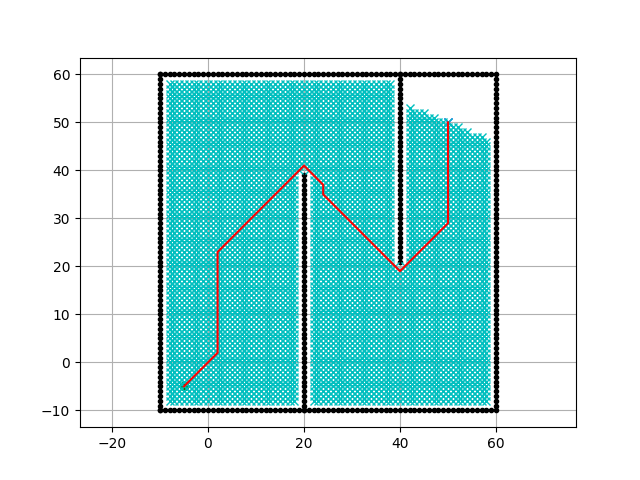
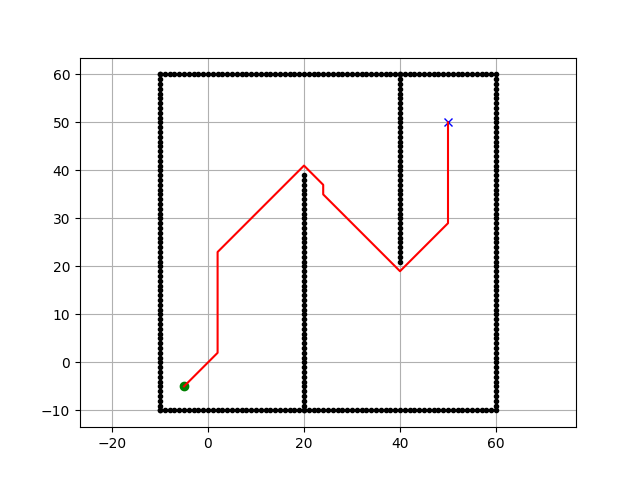
Part A of 7 complete

Changed region(s): [[0.25, 0.1562, 0.7812, 0.8438]]

diff --git a/Q7/main.py b/Q7/main.py
@@ -1,10 +1,11 @@
-from Planner import Planner
 from Dijkstra import CustomDijkstraPlanner
 from AStar import CustomAStarPlanner
 from BiDirectional import CustomBiDirectional
 from BFSPlanner import CustomBFSPlanner
 from RRTStar import CustomRRTStar
 import matplotlib.pyplot as plt
+import math
+import time
 
 
 def createGrid(show_animation):
@@ -36,26 +37,42 @@ def createGrid(show_animation):
         oy.append(60.0 - i)
 
     if show_animation:  # pragma: no cover
-        plt.plot(ox, oy, ".k")
-        plt.plot(sx, sy, "og")
-        plt.plot(gx, gy, "xb")
-        plt.grid(True)
-        plt.axis("equal")
+        plotBoard(ox, oy, sx, sy, gx, gy)
     return ox, oy, sx, sy, gx, gy
+
+
+def plotBoard(ox, oy, sx, sy, gx, gy):
+    plt.plot(ox, oy, ".k")
+    plt.plot(sx, sy, "og")
+    plt.plot(gx, gy, "xb")
+    plt.grid(True)
+    plt.axis("equal")
 
 
 def runRRtStar(obsList, start, goal, robot_radius, show_animation):
     # RRT Star has different setup
-    planner = CustomRRTStar(
-        start=start,
-        goal=goal,
-        obstacle_list=obsList,
-        robot_radius=robot_radius,
-        rand_area=[-10, 60],
+    totalCost = 0
+    totalTime = 0
+    iterations = 1
+    for i in range(iterations):
+        planner = CustomRRTStar(
+            start=start,
+            goal=goal,
+            obstacle_list=obsList,
+            robot_radius=robot_radius,
+            rand_area=[-10, 60],
+        )
+        plt.clf()
+        startTime = time.time()
+        path = planner.plan(show_animation)
+        finishTime = time.time()
+        cost = analyzeCost(path[0], path[1])
+        totalCost += cost
+        totalTime += finishTime - startTime
+        planner.graph(path)
+    print(
+        f"| RRT Star | {round(totalTime/iterations, 2)} | {round(totalCost/iterations,2)} |"
     )
-    path = planner.plan(show_animation)
-    planner.graph(path)
-    print()
 
 
 def runPlanners(ox, oy, sx, sy, gx, gy, robot_radius, show_animation, resolution):
@@ -65,20 +82,42 @@ def runPlanners(ox, oy, sx, sy, gx, gy, robot_radius, show_animation, resolution
         CustomBFSPlanner,
         CustomBiDirectional,
     ]:
-        print(algorithm.__name__)
-        planner = algorithm(ox, oy, resolution, robot_radius)  # Initialize the planner
-        rx, ry = planner.plan(sx, sy, gx, gy, show_animation)
-        if show_animation:
+        # Reset the plot
+        totalCost = 0
+        totalTime = 0
+        iterations = 1
+        for i in range(iterations):
+            plt.clf()
+            plotBoard(ox, oy, sx, sy, gx, gy)
+            startTime = time.time()
+            planner = algorithm(
+                ox, oy, resolution, robot_radius
+            )  # Initialize the planner
+            rx, ry = planner.plan(sx, sy, gx, gy, show_animation)
+            finishTime = time.time()
             planner.graph(rx, ry)
+            cost = analyzeCost(rx, ry)
+            totalCost += cost
+            totalTime += finishTime - startTime
+        print(
+            f"| {algorithm.__name__} | {round(totalTime/iterations, 2)} | {round(totalCost/iterations, 2)} |"
+        )
+
+
+def analyzeCost(rx, ry):
+    cost = 0
+    for i in range(len(rx) - 1):
+        cost += math.hypot(rx[i] - rx[i + 1], ry[i] - ry[i + 1])
+    return cost
 
 
 def main():
     resolution = 1  # [m]
     robot_radius = 1  # [m]
-    show_animation = False
+    show_animation = True
     ox, oy, sx, sy, gx, gy = createGrid(True)
     obsList = [[ox[i], oy[i], 1] for i in range(len(ox))]
-    # runPlanners(ox, oy, sx, sy, gx, gy, robot_radius, show_animation, resolution)
+    runPlanners(ox, oy, sx, sy, gx, gy, robot_radius, show_animation, resolution)
     runRRtStar(obsList, [sx, sy], [gx, gy], robot_radius, show_animation)
 
 

diff --git a/Q7/BFSPlanner.py b/Q7/BFSPlanner.py
@@ -108,7 +108,7 @@ class BreadthFirstSearchPlanner:
                     plt.pause(0.001)
 
             if current.x == ngoal.x and current.y == ngoal.y:
-                print("Find goal")
+                # print("Find goal")
                 ngoal.parent_index = current.parent_index
                 ngoal.cost = current.cost
                 break
@@ -189,15 +189,15 @@ class BreadthFirstSearchPlanner:
         self.miny = round(min(oy))
         self.maxx = round(max(ox))
         self.maxy = round(max(oy))
-        print("min_x:", self.minx)
-        print("min_y:", self.miny)
-        print("max_x:", self.maxx)
-        print("max_y:", self.maxy)
+        # print("min_x:", self.minx)
+        # print("min_y:", self.miny)
+        # print("max_x:", self.maxx)
+        # print("max_y:", self.maxy)
 
         self.xwidth = round((self.maxx - self.minx) / self.reso)
         self.ywidth = round((self.maxy - self.miny) / self.reso)
-        print("x_width:", self.xwidth)
-        print("y_width:", self.ywidth)
+        # print("x_width:", self.xwidth)
+        # print("y_width:", self.ywidth)
 
         # obstacle map generation
         self.obmap = [[False for _ in range(self.ywidth)] for _ in range(self.xwidth)]
@@ -236,3 +236,4 @@ class CustomBFSPlanner(BreadthFirstSearchPlanner):
         plt.plot(rx, ry, "-r")
         plt.grid(True)
         plt.show()
+        # plt.savefig("BFS.png")

diff --git a/Q7/BiDirectional.py b/Q7/BiDirectional.py
@@ -129,7 +129,7 @@ class BidirectionalAStarPlanner:
                     plt.pause(0.001)
 
             if current_A.x == current_B.x and current_A.y == current_B.y:
-                print("Found goal")
+                # print("Found goal")
                 meet_point_A = current_A
                 meet_point_B = current_B
                 break
@@ -283,15 +283,15 @@ class BidirectionalAStarPlanner:
         self.min_y = round(min(oy))
         self.max_x = round(max(ox))
         self.max_y = round(max(oy))
-        print("min_x:", self.min_x)
-        print("min_y:", self.min_y)
-        print("max_x:", self.max_x)
-        print("max_y:", self.max_y)
+        # print("min_x:", self.min_x)
+        # print("min_y:", self.min_y)
+        # print("max_x:", self.max_x)
+        # print("max_y:", self.max_y)
 
         self.x_width = round((self.max_x - self.min_x) / self.resolution)
         self.y_width = round((self.max_y - self.min_y) / self.resolution)
-        print("x_width:", self.x_width)
-        print("y_width:", self.y_width)
+        # print("x_width:", self.x_width)
+        # print("y_width:", self.y_width)
 
         # obstacle map generation
         self.obstacle_map = [
@@ -332,3 +332,4 @@ class CustomBiDirectional(BidirectionalAStarPlanner):
         plt.plot(rx, ry, "-r")
         plt.grid(True)
         plt.show()
+        # plt.savefig("BiDirectional.png")

diff --git a/Q7/AStar.py b/Q7/AStar.py
@@ -115,7 +115,7 @@ class AStarPlanner:
                     plt.pause(0.001)
 
             if current.x == goal_node.x and current.y == goal_node.y:
-                print("Find goal")
+                # print("Find goal")
                 goal_node.parent_index = current.parent_index
                 goal_node.cost = current.cost
                 break
@@ -215,15 +215,15 @@ class AStarPlanner:
         self.min_y = round(min(oy))
         self.max_x = round(max(ox))
         self.max_y = round(max(oy))
-        print("min_x:", self.min_x)
-        print("min_y:", self.min_y)
-        print("max_x:", self.max_x)
-        print("max_y:", self.max_y)
+        # print("min_x:", self.min_x)
+        # print("min_y:", self.min_y)
+        # print("max_x:", self.max_x)
+        # print("max_y:", self.max_y)
 
         self.x_width = round((self.max_x - self.min_x) / self.resolution)
         self.y_width = round((self.max_y - self.min_y) / self.resolution)
-        print("x_width:", self.x_width)
-        print("y_width:", self.y_width)
+        # print("x_width:", self.x_width)
+        # print("y_width:", self.y_width)
 
         # obstacle map generation
         self.obstacle_map = [
@@ -264,3 +264,4 @@ class CustomAStarPlanner(AStarPlanner):
         plt.plot(rx, ry, "-r")
         plt.grid(True)
         plt.show()
+        # plt.savefig("AStar.png")

diff --git a/Q7/Dijkstra.py b/Q7/Dijkstra.py
@@ -103,7 +103,7 @@ class Dijkstra:
                     plt.pause(0.001)
 
             if current.x == goal_node.x and current.y == goal_node.y:
-                print("Find goal")
+                # print("Find goal")
                 goal_node.parent_index = current.parent_index
                 goal_node.cost = current.cost
                 break
@@ -188,15 +188,15 @@ class Dijkstra:
         self.min_y = round(min(oy))
         self.max_x = round(max(ox))
         self.max_y = round(max(oy))
-        print("min_x:", self.min_x)
-        print("min_y:", self.min_y)
-        print("max_x:", self.max_x)
-        print("max_y:", self.max_y)
+        # print("min_x:", self.min_x)
+        # print("min_y:", self.min_y)
+        # print("max_x:", self.max_x)
+        # print("max_y:", self.max_y)
 
         self.x_width = round((self.max_x - self.min_x) / self.resolution)
         self.y_width = round((self.max_y - self.min_y) / self.resolution)
-        print("x_width:", self.x_width)
-        print("y_width:", self.y_width)
+        # print("x_width:", self.x_width)
+        # print("y_width:", self.y_width)
 
         # obstacle map generation
         self.obstacle_map = [
@@ -236,3 +236,4 @@ class CustomDijkstraPlanner(Dijkstra):
         plt.plot(rx, ry, "-r")
         plt.grid(True)
         plt.show()
+        # plt.savefig("Dijkstra.png")

diff --git a/Q7/RRTStar.py b/Q7/RRTStar.py
@@ -287,7 +287,7 @@ class RRTStar(RRT):
         expand_dis=30.0,
         path_resolution=1.0,
         goal_sample_rate=20,
-        max_iter=300,
+        max_iter=500,
         connect_circle_dist=50.0,
         search_until_max_iter=False,
         robot_radius=0.0,
@@ -518,3 +518,4 @@ class CustomRRTStar(RRTStar):
         plt.grid(True)
         plt.pause(0.01)
         plt.show()
+        # plt.savefig("rrtstar.png")

diff --git a/Q7/Q7.md b/Q7/Q7.md
@@ -1,1 +1,64 @@
-# Note: use Python-Robotics to get the A\* algorithm (tip from TA)
+## Part A
+
+Comparison of the various algorithms over 10 iterations (no animation).
+| Algorithm | Time (s) | Path Cost |
+|---|---|---|
+| Dijkstra | 0.33 | 121.78 |
+| A Star | 0.39 | 121.78 |
+| BFS | 0.33 | 121.78 |
+| Bidirectional | 0.39 | 122.37 |
+| RRT Star | 4.83 | 25.86 |
+
+Cleary, the RRT Start takes by far the longest, however it has the shortest path between each point. The other algorithms are all very similar in time and in length, but CusomtBidirectional is slightly slower and has a slightly longer path.
+
+Comparison with animation:
+| Algorithm | Time (s) | Path Cost |
+|---|---|---|
+| Dijkstra | 67.93 | 121.78 |
+| A Star | 34.68 | 121.78 |
+| BFS | 63.36 | 121.78 |
+| Bidirectional | 12.43 | 122.37 |
+| RRT Star | 56.62 | 22.77 |
+
+Once we have the animation to illustrate better how these algorithms are working, it is apparent that RRT Star is the best. Bidirectional is the fastest because it can come from both sides, while great to find a path, this is not super realistic for a robot because it would need to know both locations and jump between them in order to find the optimal path.
+
+RRT Star does take 56 seconds, but Dijkstra and BFS still take longer and have 6x the cost.
+
+How we calculated the path cost, where rx is the path of x coordinates and ry is the path of y coordinates.
+
+```python
+def analyzeCost(rx, ry):
+    cost = 0
+    for i in range(len(rx) - 1):
+        cost += math.hypot(rx[i] - rx[i + 1], ry[i] - ry[i + 1])
+    return cost
+```
+
+### Follow Up Questions
+
+A. The RRT Star algorithm is the most efficient in terms of path cost, but it is the slowest in terms of time.
+B. The fastest algorithm was the Bidirectional planner, with a second place win for Dijkstra.
+C. Our custom A\* does not fully take advantage of heuristics to speed up the search. It would be helpful to favor the algorithm to go towards where there is open space. RRT clearly shows that moving along the path in a minimal number of turns is the most efficient way to get to the goal. More aggressive convergence reduces the time and path cost.
+D. The best overall planner would be either A star or RRT Star. A star works so much faster, but requires a lot more back tracking and searching. RRT Star is slower, but it is more efficient in terms of path cost. In practice, it seems like RRT would end up being faster because it would be difficult to do so many small maneuvers on the robot for an A star or Dijkstra path.
+
+Graphs:
+
+#### A Star
+
+![A Star](./images/AStar.png)
+
+#### BFS
+
+![BFS](./images/BFS.png)
+
+#### Dijkstra
+
+![Dijkstra](./images/Dijkstra.png)
+
+#### Bidirectional
+
+![Bidirectional](./images/Bidirectional.png)
+
+#### RRT Star
+
+![RRT Star](./images/RRTStar.png)

diff --git a/Q7/README.md b/Q7/README.md
@@ -1,0 +1,11 @@
+## To Run this yourself:
+
+Install all dependencies listed in the root director.
+
+`pip install -r requirements.txt`
+
+Then run
+
+`python main.py`
+
+This will execute all of the algorithms and show the animation for how they are working.
